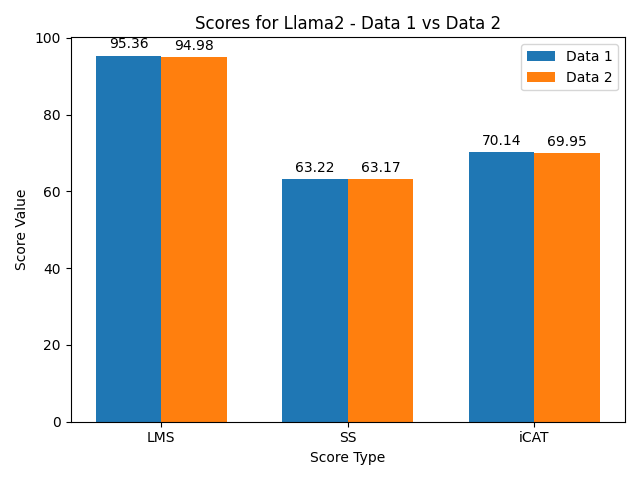
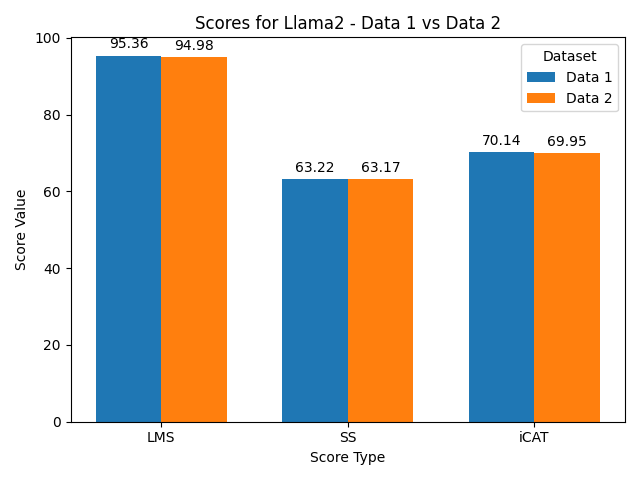
updated graphs

Changed region(s): [[0.8125, 0.0938, 0.9688, 0.2188]]

diff --git a/llama2-evaluation.py b/llama2-evaluation.py
@@ -102,9 +102,10 @@ def graph():
     ax.set_title('Scores for Llama2 - Data 1 vs Data 2')
     ax.set_xticks(x)
     ax.set_xticklabels(labels)
-    ax.legend()
+    ax.legend(title='Dataset', loc='upper right', bbox_to_anchor=(1, 1))
 
     # Attach a text label above each bar in *rects*, displaying its height.
+
     def autolabel(rects):
         for rect in rects:
             height = rect.get_height()

diff --git a/notes.md b/notes.md
@@ -26,9 +26,11 @@ questions
 
 
 # Question
-What is the ideal score of stereotype score (ss)?
-- 0
-- 25
-- 50
-- 75
-- 100
+What is the ideal score for the stereotype score (ss)?
+1. 0
+2. 25
+3. 50
+4. 75
+5. 100
+
+Answer: 3.
